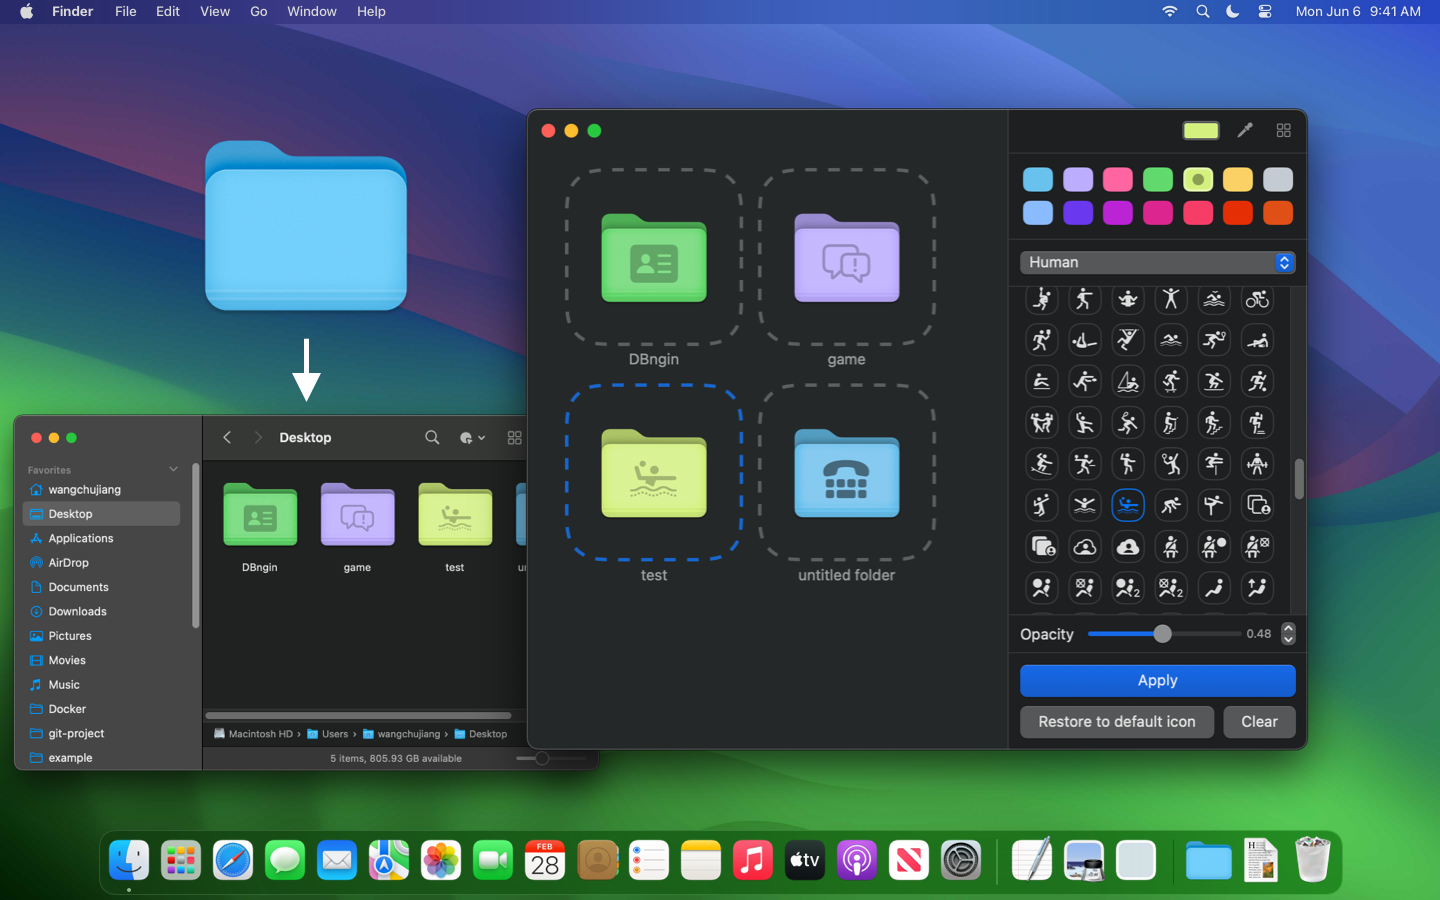
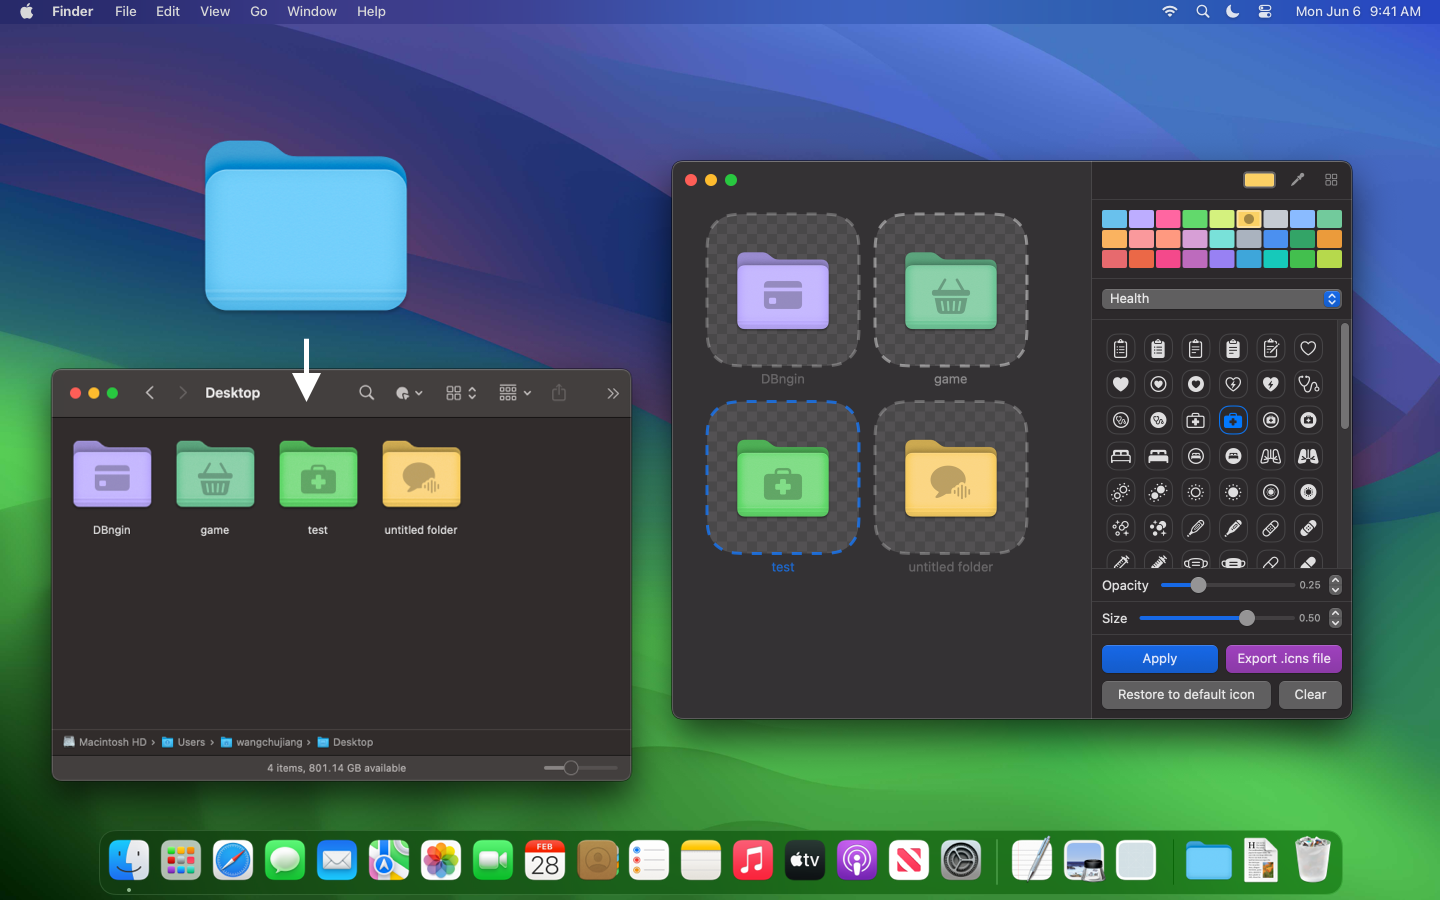
released v1.2.0 565ec6aa4c548f5b25765dc2914c4d4c4c8929aa

diff --git a/index.html b/index.html
@@ -57,6 +57,17 @@
         <p>
           <img src="assets/screenshots-2.png" alt="Iconize Folder 2">
         </p>
+        <p>
+          <img src="assets/screenshots-3.png" alt="Iconize Folder 3">
+        </p>
+        <h2 id="features"><a aria-hidden="true" tabindex="-1" href="#features" class="anchor"><span class="icon icon-link"></span></a>Features</h2>
+        <ul>
+          <li>Over 5000 diverse symbol icons to choose from</li>
+          <li>Adjustable symbol icon opacity and size</li>
+          <li>Ability to set folder icon color</li>
+          <li>Quick import of folder paths into Dock for setting</li>
+          <li>Export folder icons as icns format</li>
+        </ul>
         <p>Elevate your folders and documents with personalized and exclusive identifiers. Transform file management from mundane to a visual feast – revel in the diversity!</p>
       </markdown-style>
     </div>

diff --git a/index.zh.html b/index.zh.html
@@ -57,6 +57,17 @@
         <p>
           <img src="assets/screenshots-2.png" alt="Iconize Folder 2">
         </p>
+        <p>
+          <img src="assets/screenshots-3.png" alt="Iconize Folder 3">
+        </p>
+        <h2 id="功能特点"><a aria-hidden="true" tabindex="-1" href="#功能特点" class="anchor"><span class="icon icon-link"></span></a>功能特点</h2>
+        <ul>
+          <li>超过 5000 种多样符号图标设置</li>
+          <li>支持符号图标透明度大小设置</li>
+          <li>支持设置文件夹图标颜色</li>
+          <li>支持快速将需要设置的文件夹路径导入到 Dock</li>
+          <li>支持将文件夹图标导出为 icns 格式</li>
+        </ul>
         <p>用个性化和独家标识提升您的文件夹和文档。将文件管理从单调转变为视觉盛宴！</p>
       </markdown-style>
     </div>
